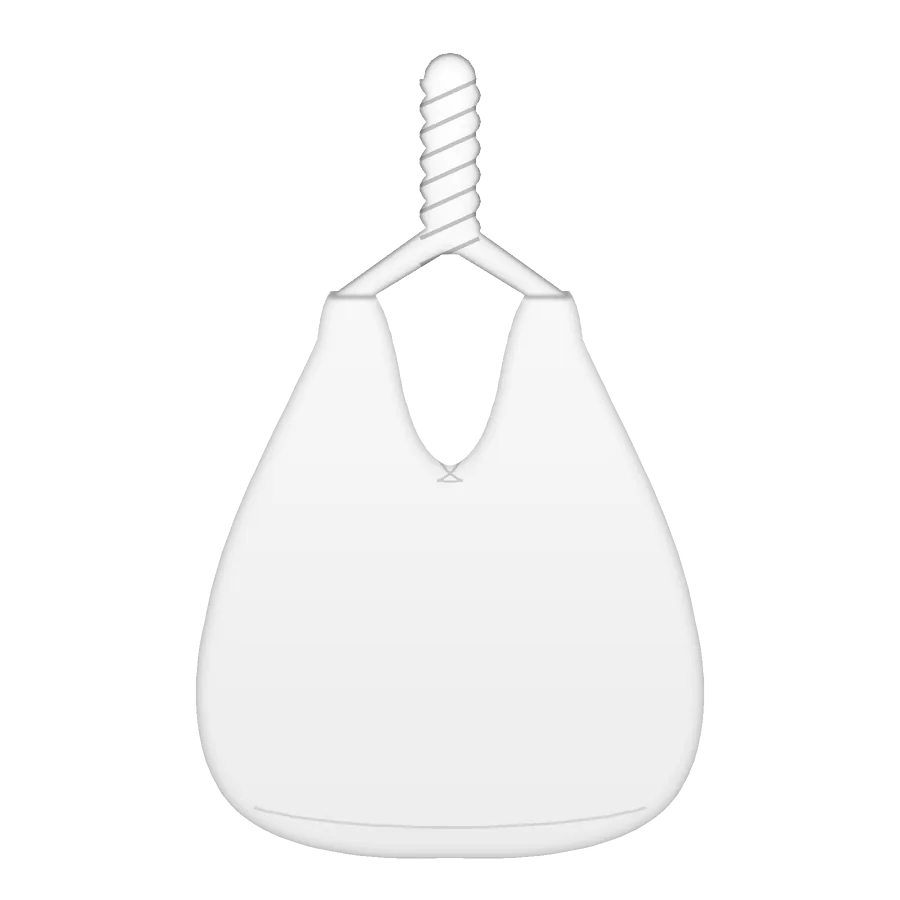
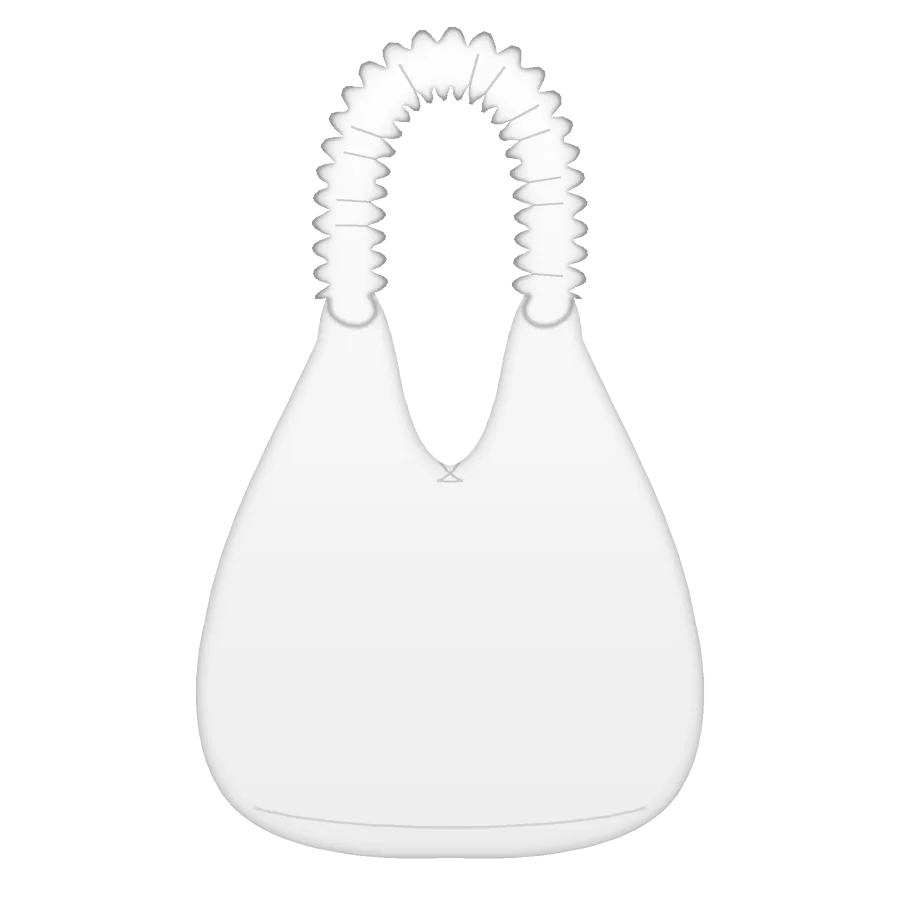
fix(tui): tie bag: plain straps in the price; 'Dây xoắn' is a ruffled (nhún bèo) strap, +30k
Anna 14/10: styled straps cost more (ruffle +30k); bow +10k and lace +20k
are placeholders.

Claude-Session: https://claude.ai/code/session_01XuGc1emL7LJH73FGACZt11

Changed region(s): [[0.3422, 0.0311, 0.6533, 0.3733]]

diff --git a/js/patch.js b/js/patch.js
@@ -97,10 +97,11 @@
     tuitamgiac:   { sku: 'tui-di-choi', group: 'tui', vi: 'Túi tam giác', en: 'Triangle bag', shape: 'tuitamgiac', grid: 3, span: 61,
                     short: { vi: 'Tam giác', en: 'Triangle' }, layouts: BAG_LAYOUTS, names: BAG_NAMES, def: 'mot', opts: 'qpzn' },
     // the tie shoulder bag (a pattern Anna liked): two points tied on the
-    // shoulder, four ways (ties)
+    // shoulder, four ways (ties): plain straps are in the price, styled
+    // ones cost more
     tuibuoc:      { sku: 'tui-di-choi', group: 'tui', vi: 'Túi buộc vai', en: 'Tie shoulder bag', shape: 'tuibuoc', grid: 3, span: 53,
                     short: { vi: 'Buộc vai', en: 'Tie' }, layouts: BAG_LAYOUTS, names: BAG_NAMES, def: 'mot', opts: 'qpnt',
-                    ties: ['no', 'thuong', 'xoan', 'ren'] },
+                    ties: ['thuong', 'no', 'xoan', 'ren'] },
     laptop:       { sku: 'tui-laptop',  group: 'laptop', vi: 'Túi laptop', en: 'Laptop sleeve', shape: 'laptop', grid: 3, span: 33,
                     short: { vi: 'Không quai', en: 'No strap' }, layouts: BAG_LAYOUTS, names: BAG_NAMES, def: 'doc', opts: 'qpn', zip: 1 },
     laptopq:      { sku: 'tui-laptop',  group: 'laptop', vi: 'Túi laptop có quai', en: 'Laptop sleeve with strap', shape: 'laptopq', grid: 3, span: 42,
@@ -206,8 +207,8 @@
   SIZES.laptopq = SIZES.laptop;
   var MAX_POCKETS = 5, CUSTOM_CM = [3, 200];
   // how a tie bag is tied on the shoulder (PRODUCTS[x].ties)
-  var TIES = { no: { vi: 'Nơ', en: 'Bow' }, thuong: { vi: 'Thắt thường', en: 'Plain knot' },
-    xoan: { vi: 'Xoắn', en: 'Twisted' }, ren: { vi: 'Dây ren', en: 'Lace ribbon' } };
+  var TIES = { thuong: { vi: 'Dây thẳng', en: 'Plain straps' }, no: { vi: 'Thắt nơ', en: 'Bow' },
+    xoan: { vi: 'Dây xoắn (nhún bèo)', en: 'Ruffled strap' }, ren: { vi: 'Dây ren', en: 'Lace ribbon' } };
   function tieOf(d) { var p = PRODUCTS[d.product]; return p.ties ? p.ties[(d.ext && d.ext.t) || 0] || p.ties[0] : null; }
   function sizesOf(product) { return SIZES[product] || [{ w: 0, h: 0 }]; }
   function sizeLabel(product, i, l) {
@@ -301,7 +302,7 @@
       tuino:        { base: 220000, fabric: 10000, layouts: BAG_FEES, sizes: [0, 30000], quilt: 60000, pocket: 20000, zip: 30000, snap: 10000 },
       tuikhoa:      { base: 200000, fabric: 10000, layouts: BAG_FEES, quilt: 50000, pocket: 20000, snap: 10000 },
       tuitamgiac:   { base: 100000, fabric: 10000, layouts: BAG_FEES, quilt: 60000, pocket: 20000, zip: 30000, snap: 10000 },
-      tuibuoc:      { base: 180000, fabric: 10000, layouts: BAG_FEES, quilt: 60000, pocket: 20000, snap: 10000, ties: [0, 0, 10000, 15000] },
+      tuibuoc:      { base: 180000, fabric: 10000, layouts: BAG_FEES, quilt: 60000, pocket: 20000, snap: 10000, ties: [0, 10000, 30000, 20000] },
       laptop:       { base: 260000, fabric: 10000, layouts: BAG_FEES, sizes: [0, 10000, 20000], quilt: 50000, pocket: 20000, snap: 10000 },
       laptopq:      { base: 290000, fabric: 10000, layouts: BAG_FEES, sizes: [0, 10000, 20000], quilt: 50000, pocket: 20000, snap: 10000 }
     }
@@ -1344,7 +1345,7 @@
     tuibuoc: { n: 'tuibuoc', bag: 1, box: [74, 111, 266, 324], snap: [170, 182], styles: {
       no: { parts: [{ id: 'quai', d: 'M125 112L161 52L171 58L141 112ZM215 112L179 52L169 58L199 112ZM164 50L146 76L154 80L170 54ZM176 50L194 76L186 80L170 54ZM167.5 37.6L167.6 39.6L167.1 41.6L164.2 45.6L159.3 49.1L156.2 50.6L149.3 52.8L145.7 53.4L138.7 53.5L132.7 52.3L128.5 49.8L127.2 48.2L126.5 46.4L126.4 44.4L126.9 42.4L129.8 38.4L134.7 34.9L137.8 33.4L144.7 31.2L151.9 30.4L158.5 31L161.3 31.7L163.6 32.8L165.5 34.2L166.8 35.8ZM213.5 46.4L212.8 48.2L211.5 49.8L207.3 52.3L201.3 53.5L194.3 53.4L190.7 52.8L183.8 50.6L178 47.4L174.1 43.6L172.9 41.6L172.4 39.6L172.5 37.6L173.2 35.8L174.5 34.2L178.7 31.7L184.7 30.5L191.7 30.6L195.3 31.2L202.2 33.4L208 36.6L211.9 40.4L213.1 42.4L213.6 44.4ZM162 36L178 36L179 52L161 52Z' }] },
       thuong: { parts: [{ id: 'quai', d: 'M125 112L161 52L171 58L141 112ZM215 112L179 52L169 58L199 112ZM163 44L149 22L157 18L170 40ZM177 44L191 22L183 18L170 40ZM161 40L179 40L181 57L159 57Z' }] },
-      xoan: { parts: [{ id: 'quai', d: 'M125 112L161 86L172 93L141 112ZM215 112L179 86L168 93L199 112ZM161 96L158.5 92L158.5 90L161 86L158.5 82L158.5 80L161 76L158.5 72L158.5 70L161 66L158.5 62L158.5 60L161 56L158.5 52L158.5 50L161 46L158.5 42L158.5 40L161 36L158.5 32L158.5 30L160 30L160.8 26.2L162.9 22.9L166.2 20.8L170 20L173.8 20.8L177.1 22.9L179.2 26.2L180 30L179.8 32L181.1 34L181.6 36L181.1 38L179.8 40L179.8 42L181.1 44L181.6 46L181.1 48L179.8 50L179.8 52L181.1 54L181.6 56L181.1 58L179.8 60L179.8 62L181.1 64L181.6 66L181.1 68L179.8 70L179.8 72L181.1 74L181.6 76L181.1 78L179.8 80L179.8 82L181.1 84L181.6 86L181.1 88L179.8 90L179.8 92L181.1 94L181.6 96Z' }] },
+      xoan: { parts: [{ id: 'quai', d: 'M139 111.5L143.4 109.8L145.6 108.3L146.5 106.8L146.3 105.5L144.7 104.3L140.3 102.2L143.6 100.7L145.4 99.3L146 97.9L145.4 96.6L143.5 95.3L140.3 94.4L141.1 93.1L144 91.7L145.5 90.3L145.7 89L144.8 87.7L138.7 85.3L142.2 84.1L144.6 82.8L145.8 81.5L145.7 80.7L144.5 79.3L139.8 76.3L145.6 74.5L146.5 73.3L146.2 71.9L144.7 70.4L141.7 69.2L142.1 67.8L145.2 67L147.1 65.9L147.7 64.7L145.3 62.2L142 60.1L144.8 59.3L147.5 59.3L149.1 58.4L149.5 57.1L144.1 51.9L147.9 52.6L150.4 52.2L151.8 51.4L152 50L150.8 49L148.6 45.6L152 46.2L154.7 46.2L154.9 44.7L154.2 42.4L151.9 39.9L154.2 40.1L156.2 41.8L158.2 42L158.7 40.3L158.4 37.7L156.6 34L159.9 37L161.2 38.9L162.9 39.2L163.6 37.2L163.2 34.5L164.1 32.8L165.4 36L167.5 38.2L168.7 37.4L170.3 32.3L171 33.4L171.4 36.2L172.8 38.1L174.3 37.4L177.5 31.7L177 35.4L177.4 38.1L177.1 39.2L178.4 39.7L179.2 38.5L183.2 35.4L182.2 39.1L182.2 41.5L181.7 42.1L183 42.7L184.3 41.5L187.5 40.4L187.6 41L186.1 43.9L185.4 46.3L186.8 46.9L189.3 46.9L192.8 45.6L190.9 48.1L188.9 49.6L188.4 51.3L188.9 52.5L190.6 53.3L193 52.9L196.2 53.2L191.2 56.9L190.8 58.4L191.5 59.6L196.4 60.4L197 61.7L192.8 64.6L192.5 66L193.5 67.2L195.6 68.2L199.3 69L194.9 71.8L193.7 73.3L193.7 74.6L197.4 76.4L201.2 77.5L197.2 79.1L194.1 81.5L194.4 82.8L196 84.1L198.8 85.4L199.9 86.7L196.7 87.7L194.8 89L194.2 90.3L194.8 91.7L196.7 93.1L200 94.4L195.8 96.6L194.3 97.9L194 99.2L194.9 100.6L197.1 102.1L201.3 103.4L197.1 104.4L194.7 105.6L193.5 106.8L193.5 108.2L194.8 109.6L197.3 111.2L220.2 113.1L218.4 111.6L215 110L219.8 107.7L221.3 106.4L221.5 105.1L220.5 103.3L218.3 101.8L214.4 100.3L218.7 99.1L221 97.9L222 96.6L221.8 94.8L220.4 93.4L217.6 92L216.4 90.7L219.8 89.4L221.6 88.1L222.2 86.2L221.6 84.9L219.7 83.6L216.4 82.3L217.5 80.9L221.6 77.6L221.8 76.2L220.7 74.9L218.4 73.7L214.1 72.4L217.8 70.6L220 69L220.9 67.6L220.6 65.5L219 64.4L214 62.5L217.3 60.6L218.8 58.3L219.2 56.8L218.4 55.6L212.9 53.5L213 52.1L215.4 50L216.3 47.5L216.2 46.1L212.2 43.8L208.1 44.1L212.1 39.5L212.1 36.8L211.5 35.7L209.2 34.2L203.3 34.7L206 28.5L205.8 26.9L203.8 25.2L198 25.8L196.8 25.1L196.9 19L196 17.9L193.4 17.1L187.6 20.3L187.3 17.7L185.3 12.7L182.9 11.9L178.6 14.5L176.6 17.7L174.1 11.2L171.8 10.1L169.5 10.3L166.3 14.8L165.1 15.9L160.9 11.5L158.4 11.4L157.2 12.4L155.5 14.9L155.4 18.5L152.8 18L150.5 16.1L147.5 16L146.2 16.5L144.6 18.8L144.8 21.4L146.3 25.7L139.5 22.9L136.9 24L136.1 25.1L135.5 27.9L136.8 30.6L137.3 32.7L130.9 32.6L129.6 33.4L128.9 35.8L131.7 41.1L130.5 42.1L127.3 42.1L125.4 42.8L124.3 44.8L124.7 46.4L129.4 51.4L123.2 52.4L121.5 54.2L121.3 55.5L122.2 57.1L126.5 61.2L122.7 62L120.4 63L119.4 64.2L119.7 65.6L121.1 67.8L123.9 69.4L123.8 70.8L120.6 71.8L118.8 73.6L118.3 74.9L119 76.3L120.9 77.7L124.5 79.3L119.3 82.2L118 83.5L117.9 84.8L121.5 88L124.8 89.3L120.9 90.7L118.8 92.1L117.9 93.4L118.2 94.8L119.8 96.5L122.8 97.7L123.5 99L120.4 100.5L118.7 102L118.3 103.3L119.1 105.1L121.1 106.2L124.6 107.3L123 108.8L120.5 110.3L119.2 111.8L119.1 113.1ZM141.5 119.1L140.1 121.1L137.9 122.6L135.2 123.2L130.6 122.6L127.9 121.1L125.7 119.1L124.5 116.6L124.3 114.1L125.1 111.8L126.9 110L130.8 108.8L133.9 109L136.8 110.1L140.3 112.9L141.5 115.4L141.7 117.9ZM215.5 112.9L215.8 115.4L214.3 119.1L212.1 121.1L209.4 122.6L206.4 123.2L203.4 123L200.9 122L199.1 120.2L198.5 119.1L198.2 116.6L199 114.1L200.7 111.8L203.2 110.1L206.1 109L210.6 109L213.1 110L214.9 111.8Z' }] },
       ren: { parts: [], top: 1 }
     } },
     laptopq: { n: 'laptopq', bag: 1, box: [37, 136, 302, 272], top: 1, snap: [170, 142],

diff --git a/tools/bag-assets.py b/tools/bag-assets.py
@@ -16,8 +16,8 @@ Two kinds of bag:
               tuitote           tote, one handle arch (front and back handles
                                 line up), box-X stitched tabs
               tuibuoc-<style>   tie shoulder bag: two points tied on the shoulder,
-                                as a bow (no), a plain knot (thuong), twisted
-                                (xoan) or with lace ribbon (ren)
+                                plain straps knotted (thuong), a bow (no), a
+                                ruffled strap (xoan) or lace ribbon (ren)
               laptopq           the laptop sleeve painting, smaller, with a
                                 shoulder strap drawn over it
 
@@ -373,8 +373,9 @@ def drawn(name, src=None, style='no'):
         left = side(1)
         body = left + side(-1)[::-1]
         # the straps from each point, and how they meet on the shoulder
-        # (style): a bow, a plain knot, twisted together, or lace ribbon tied
-        # in a bow (lace is drawn as is, cream, over the fabric)
+        # (style): plain straps knotted (thuong, in the price), a bow, a
+        # ruffled strap over the shoulder (xoan), or lace ribbon tied in a bow
+        # (lace is drawn as is, cream, over the fabric)
         def loop(cx, cy, rx, ry, rot):
             r = math.radians(rot)
             return [(cx + rx * math.cos(t) * math.cos(r) - ry * math.sin(t) * math.sin(r),
@@ -391,16 +392,36 @@ def drawn(name, src=None, style='no'):
             tail_l = [(163, 44), (149, 22), (157, 18), (170, 40)]
             ties = [tie_l, mirror(tie_l), tail_l, mirror(tail_l), [(161, 40), (179, 40), (181, 57), (159, 57)]]
             folds = [[(160, 48), (180, 48)]]
-        else:   # xoan: the two straps twisted round each other, up over the shoulder
-            tie_l = [(125, 112), (161, 86), (172, 93), (141, 112)]
-            # the twist: the edges swell and pinch every turn, the turns lean
-            ys = [96 - i for i in range(0, 67, 2)]
-            lft = [(170 - 9 - 2.6 * abs(math.sin((96 - y) * math.pi / 10)), y) for y in ys]
-            rgt = [(170 + 9 + 2.6 * abs(math.sin((96 - y) * math.pi / 10 + math.pi / 2)), y) for y in ys]
-            cap = [(170 - 10 * math.cos(k * math.pi / 8), 30 - 10 * math.sin(k * math.pi / 8)) for k in range(9)]
-            col = lft + cap + rgt[::-1]
-            ties = [tie_l, mirror(tie_l), col]
-            folds = [[(159, y + 4), (181, y - 6)] for y in range(36, 100, 10)]
+        else:   # xoan: a ruffled strap (fabric gathered on a narrow band), one
+            # arch from point to point over the shoulder, knotted at each point
+            mid = cubic((133, 112), (126, 40), (150, 24), (170, 24)) + cubic((170, 24), (190, 24), (214, 40), (207, 112))[1:]
+            # even steps along the arch
+            seg = [0.0]
+            for (x0, y0), (x1, y1) in zip(mid, mid[1:]):
+                seg.append(seg[-1] + math.hypot(x1 - x0, y1 - y0))
+            L, n = seg[-1], 160
+            pts, j = [], 0
+            for i in range(n + 1):
+                d = L * i / n
+                while j < len(seg) - 2 and seg[j + 1] < d:
+                    j += 1
+                t = (d - seg[j]) / max(seg[j + 1] - seg[j], 1e-6)
+                (x0, y0), (x1, y1) = mid[j], mid[j + 1]
+                nx, ny = -(y1 - y0), x1 - x0
+                ln = math.hypot(nx, ny) or 1
+                pts.append((x0 + (x1 - x0) * t, y0 + (y1 - y0) * t, nx / ln, ny / ln, d))
+            # big soft frills either side of a narrow band (a pinch every 9)
+            bump = lambda d, ph: 6 + 8 * abs(math.sin(d * math.pi / 9 + ph)) ** 0.7
+            outer = [(x + nx * bump(d, 0), y + ny * bump(d, 0)) for x, y, nx, ny, d in pts]
+            inner = [(x - nx * bump(d, 1.4), y - ny * bump(d, 1.4)) for x, y, nx, ny, d in pts]
+            ruffle = outer + inner[::-1]
+            knots = [loop(133, 116, 9, 7, 20), loop(207, 116, 9, 7, -20)]
+            ties = [ruffle] + knots
+            # the gathers: short folds across the band at each pinch
+            folds = []
+            for x, y, nx, ny, d in pts[2:-2]:
+                if abs(math.sin(d * math.pi / 9)) < 0.12:                    # at each pinch
+                    folds.append([(x - nx * 5, y - ny * 5), (x + nx * 12, y + ny * 12)])
         fill(A, body)
         if style == 'ren':
             T = Image.new('RGBA', (SIDE * S2, SIDE * S2))
@@ -431,7 +452,7 @@ def drawn(name, src=None, style='no'):
                 fill(A, q)
             parts['quai'] = ''.join(path(q) for q in ties)
             for f in folds:
-                line(marks, f, 150 if style == 'xoan' else 90, 1.6 if style == 'xoan' else 1.0)
+                line(marks, f, 120 if style == 'xoan' else 90, 1.1 if style == 'xoan' else 1.0)
         # topstitch round the mouth and the points, the side seam of the gusset
         inner = [(x + (6 if x < 170 else -6 if x > 170 else 0), y + 6) for x, y in left[-14:]]
         line(marks, inner, 110, 1.0, dash=(5, 4))

diff --git a/tools/check-studio.py b/tools/check-studio.py
@@ -2994,12 +2994,12 @@ async def tui(browser, db):
         check(all(drawn), f'{name}: each shape draws its own bag ({drawn})')
         # the tie bag: four ways to tie it on the shoulder, each drawn
         ties = await pg.evaluate("[...document.querySelectorAll('[data-tie]')].map(b => b.textContent)")
-        check(len(ties) == 4 and ties[0] == 'Nơ', f'{name}: "Kiểu buộc vai": four ways ({ties})')
+        check(len(ties) == 4 and ties[0] == 'Dây thẳng', f'{name}: "Kiểu buộc vai": four ways, plain straps first ({ties})')
         pt0 = num(await pg.evaluate(price))
         await js_click(pg, '[data-tie="2"]')
         await pg.wait_for_timeout(250)
-        check(await pg.evaluate("!!document.querySelector('.pt-board image[href*=\"mon-tuibuoc-xoan-mask\"]')") and num(await pg.evaluate(price)) - pt0 == 10000,
-              f'{name}: "Xoắn" draws the twist, +10.000đ')
+        check(await pg.evaluate("!!document.querySelector('.pt-board image[href*=\"mon-tuibuoc-xoan-mask\"]')") and num(await pg.evaluate(price)) - pt0 == 30000,
+              f'{name}: "Dây xoắn (nhún bèo)" draws the ruffle, +30.000đ')
         await js_click(pg, '[data-tie="3"]')
         await pg.wait_for_timeout(250)
         check(await pg.evaluate("!!document.querySelector('.pt-board image[href*=\"mon-tuibuoc-ren-top\"]') && window.GemPatch.slots(window.GemPatch.parse(new URL(window.GemPatch.url('2~tuibuoc~mot~~~~~~~~~~t3')).searchParams.get('d'))) === 1"),

diff --git a/docs/design.md b/docs/design.md
@@ -1993,8 +1993,10 @@ hai migration chỉ chạy khi merge: `20261015_kho_vai_photo.sql` (ảnh lớn 
     - 4 dáng từ tranh túi của Gem: tote, quai nơ (size nhỏ / vừa), khoá kéo đeo vai, tam giác.
     - **Túi buộc vai** (mẫu Anna gửi 14/10, thay túi bán nguyệt vì dáng bán nguyệt trông già): thân
       2 đỉnh nhô, miệng khoét, mảnh hông/đáy, hai đỉnh buộc trên vai. **Kiểu buộc vai** là một
-      lựa chọn (field 13 `t<i>`): nơ, thắt thường, xoắn (+10k), dây ren (+15k). Mỗi kiểu một bộ
-      tranh `mon-tuibuoc-<kiểu>-*`. Dây ren màu kem vẽ sẵn, không lấy vải trong rổ (bớt một ô vải).
+      lựa chọn (field 13 `t<i>`): **dây thẳng** (mặc định, đã gồm trong giá), thắt nơ (+10k, tạm),
+      **dây xoắn = dây nhún bèo** (+30k, Anna chốt), dây ren (+20k, tạm). "Dây tạo kiểu thì cộng
+      thêm tiền" (Anna 14/10). Mỗi kiểu một bộ tranh `mon-tuibuoc-<kiểu>-*`. Dây ren màu kem vẽ sẵn,
+      không lấy vải trong rổ (bớt một ô vải).
     - Túi dây rút đã bỏ (Anna 14/10: không làm chính).
   - Tote **vẽ lại cho đứng thẳng, không rủ như ảnh** (Anna 14/10): đáy phẳng, miệng thẳng, quai
     vòng đều, tab quai may chữ X.
